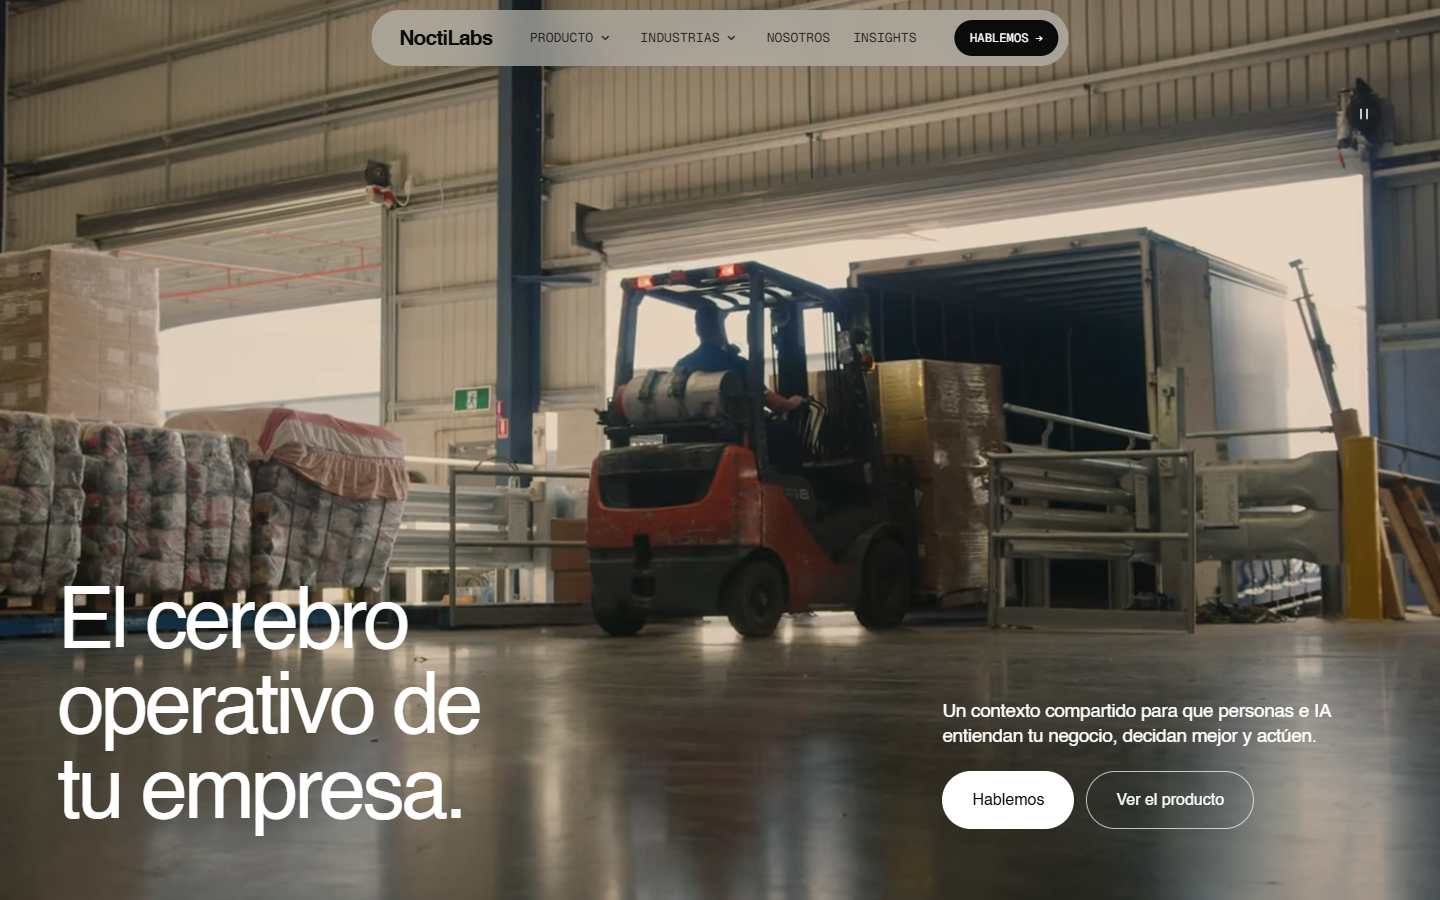
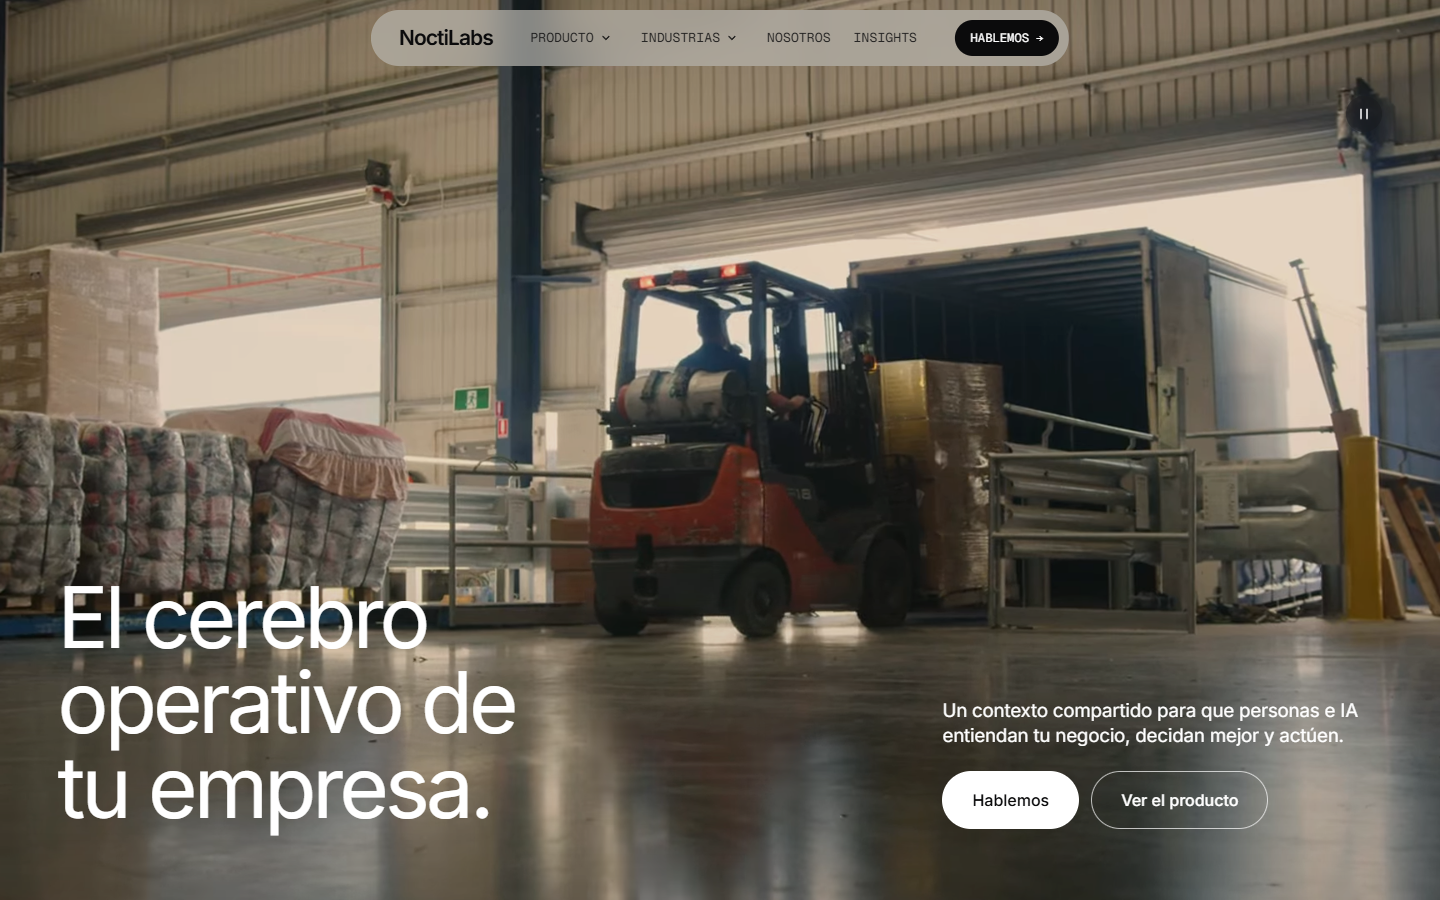
docs: evidencia del spec 001 tras el gate (pasada 2)

diff --git a/docs/reviews/002-spec-sol-pasada-1.md b/docs/reviews/002-spec-sol-pasada-1.md
@@ -1,0 +1,41 @@
+GATE: NO
+
+1. **BLOQUEANTE — §4.1 Capacidades y pasos; B6.** Las tarjetas no son interactivas ni contienen elementos enfocables: `:focus-within` nunca se activa recorriendo la página con Tab. Mantener el ejemplo en el árbol accesible resuelve lectores de pantalla, pero deja afuera a quien usa teclado y ve la pantalla. **Evidencia:** L110–115; Inv §11.23. **Arreglo:** agregar un control real para desplegar cada ejemplo, o mantenerlos visibles para todos. B6 debe comprobar acceso con teclado real, sin enfocar nodos artificialmente por CDP. Si se conserva la tarjeta 04 dinámica, su selector `:has()` debe contemplar también ese foco.
+
+2. **BLOQUEANTE — §4.1 Diagramas y tarjetas; fidelidad versus accesibilidad.** Reproducir los colores exactos produce texto ilegible. `chipOff` usa `#9A9A96` sobre `#F4F4F2`: **2,56:1**. Los ejemplos usan `#D9D9DC`; al mostrarlos siempre en táctil sin oscurecer la tarjeta, quedan en **1,41:1 sobre blanco** o **1,28:1 sobre el fondo claro**. **Evidencia:** Inv §0.2, §1.4–1.5 y §9.10; mínimo de texto normal [WCAG 1.4.3](https://www.w3.org/WAI/WCAG22/Understanding/contrast-minimum.html). **Arreglo:** declarar las diferencias de color accesibles, definir colores para cada fondo y verificar manualmente los estados claro, oscuro, hover, foco y táctil.
+
+3. **BLOQUEANTE — §4.6 Formulario y §4.7 sin JS; B8.** `<form method="post" novalidate>` sin `action` puede enviar los datos a la página actual. `<noscript>` solamente muestra un aviso: no cancela el envío. **Evidencia:** L171 y L198; comportamiento de [formularios HTML](https://developer.mozilla.org/en-US/docs/Web/HTML/Reference/Elements/form). **Arreglo:** dejar el formulario inoperable en el HTML inicial y habilitarlo recién después de registrar el manejador de `submit` con `preventDefault()`. Comprobar sin JS tanto clic como Enter: ninguna petición ni navegación.
+
+4. **BLOQUEANTE — §3.2 Extensión de S1.** No están definidos el identificador estable del artículo ni sus dos slugs literales. Se exige escribir valores esperados independientes, pero el implementador tendría que inventarlos junto con el registro. **Evidencia:** L63–71; spec 001 §3.2 y §4 exige expectativas copiadas del contrato. **Arreglo:** incorporar la fila completa `ArticleId → slug ES → slug EN → URLs`. Extender S1 mediante ciclos separados para `href`, `alternates` y `pageFromPath`, incluidos variantes sin barra, negativos por idioma, barras repetidas y rechazo de identificadores inválidos por tipos.
+
+5. **BLOQUEANTE — §4.5 Insights; B7.** Esta fase tiene un artículo y una categoría, por lo que oculta los filtros; B7 exige operar un filtro que actualice la URL y la lista. No hay interacción disponible para cumplirlo. **Evidencia:** L154–159 frente a L241; Inv §5.2. **Arreglo:** diferir el filtro hasta que exista contenido que permita usarlo y ajustar B7 a ausencia del control, artículo, índice e idiomas. Si se mantiene ahora, definir cómo se verifica con el contenido real disponible, sin introducir mocks propios.
+
+6. **BLOQUEANTE — D1 y B3.** El spec anterior aprobado exige resolver la sans **antes de fase 2**; este vuelve a postergarla. La pila actual cambia entre Arial y Helvetica Neue según la máquina, alterando medidas y saltos de línea. **Evidencia:** spec 001 §7 D1; spec 002 L253; Inv §0.1. **Arreglo:** el dueño debe elegir fuente antes de implementar, o aprobar explícitamente una enmienda que mantenga el fallback y establezca con cuál se acepta la fidelidad. Postergar solamente la licencia no cierra esa decisión.
+
+7. **IMPORTANTE — §3.1 y §3.2 Colección de artículos.** La carpeta y el frontmatter no definen una colección moderna completa. Faltan loader, esquema y separación entre identidad editorial compartida e identidad única de cada traducción. En Astro, el `slug` del frontmatter interviene en el ID generado por `glob()`. **Evidencia:** L56 y L69; loader instalado en Astro 7.3.5; [colecciones de Astro](https://docs.astro.build/en/guides/content-collections/). **Arreglo:** especificar `src/content.config.ts`, `defineCollection`, `glob` y esquema; usar un `articleId` compartido y una clave única por idioma. La validación de build debe exigir exactamente una entrada ES y una EN por artículo registrado, cuerpo no vacío, slugs coincidentes y ausencia de duplicados o entradas huérfanas. Validar únicamente las entradas presentes no detecta traducciones faltantes.
+
+8. **IMPORTANTE — §3 Arquitectura del contenido; B2.** No está definida la migración de metadatos. Hoy `ui.ts` calcula `PageKey` desde `PageRef`; agregar `articulo` introduce una clave que `ui.pages` no tiene. Además, los nuevos H1 de industrias quedan duplicados entre `ui.ts` y `industries.ts`. **Evidencia:** `src/i18n/ui.ts`, funciones `pageKey` y `pageTitle`; L54–59 y L165. **Arreglo:** definir una fuente por dato: metadatos y hero de industrias desde su contenido; metadatos del artículo desde la entrada localizada, con `excerpt` como descripción si esa es la decisión. Adaptar los consumidores existentes y fijar una tabla independiente de expectativas para B2.
+
+9. **IMPORTANTE — §4.8 AppSlot.** El contrato no garantiza el reemplazo prometido. Falta `locale`, enums y defaults; tampoco hay canal para cambiar `role` desde las tabs, recibir `onChatDone` o navegar mediante `onNewAgent`. Cambiar `data-app-role` no actualiza por sí solo las props de una isla React. **Evidencia:** L203–205; Inv §1.3 y §12.1/12.7; App L417. **Arreglo:** definir ahora props serializables, incluyendo idioma y destino de contacto, y el canal de eventos para rol y fin del chat. Establecer quién controla el rol y asignar `frame` explícitamente a los seis embeds. Implementar la isla sigue siendo fase 3.
+
+10. **IMPORTANTE — §4.1 Antes/después; B4.** “El JS solo alterna la clase” contradice el cambio de título, captions, `aria-pressed` y modo de anuncio. Tampoco se define qué ocurre con los nodos y el cierre invisibles: `opacity: 0` los deja disponibles para lectores de pantalla. **Evidencia:** L100–104; Inv §1.2 y §9.11. **Arreglo:** describir una transición de estado que sincronice contenido visible y semántica; dar una descripción textual equivalente al diagrama y ocultar sus partes puramente gráficas del árbol accesible. Usar una región persistente para anunciar cambios manuales y verificar que el autoplay permanezca silencioso.
+
+11. **IMPORTANTE — §4.1 Alternancia; B4.** El control detiene permanentemente el autoplay, pero no comunica esa función. También faltan comportamiento al cambiar reduced motion en vivo y estado inicial sin JS. **Evidencia:** L101–102; Inv §1.2; [WCAG 2.2.2](https://www.w3.org/WAI/WCAG22/Understanding/pause-stop-hide.html) contempla contenido actualizado automáticamente. **Arreglo:** explicar que elegir Sin/Con detiene la alternancia, mantenerla detenida al salir y volver, escuchar cambios de preferencia y definir el contenido estático inicial. B4 debe verificar esas condiciones; no hace falta agregar otro control si el existente resulta descubrible.
+
+12. **IMPORTANTE — §4.1 Tabs de rol e industrias; B5.** Las tabs de rol cambian un único slot, pero no se define su relación con paneles APG. Sin JS quedan botones anunciados como tabs aunque no funcionan. B5 tampoco exige nombres accesibles ni relaciones entre tabs y paneles. **Evidencia:** L107–108, L117–120 y L212; [patrón APG](https://www.w3.org/WAI/ARIA/apg/patterns/tabs/). **Arreglo:** definir IDs, `aria-controls`, `aria-labelledby`, nombre del `tablist`, envoltura de flechas y acceso al panel con Tab. Elegir explícitamente paneles por rol o un selector de rol con otra semántica. Aplicar roles y controles operables solamente después de inicializar el JS.
+
+13. **IMPORTANTE — §3.2 y §5 Estado en URL; B13.** Se sincroniza el filtro, pero las tabs de industria y rol no tienen URL ni excepción declarada. Para el filtro faltan IDs de categoría, normalización de valores inválidos y tratamiento del destacado: “resto de artículos” no alcanza cuando una categoría debe incluir al destacado. **Evidencia:** Inv §5.2; regla de estado en URL de las [guidelines](https://raw.githubusercontent.com/vercel-labs/web-interface-guidelines/main/command.md). **Arreglo:** documentar una excepción para estados efímeros o sincronizar selecciones manuales. Para filtros, fijar IDs independientes del idioma, conservar otros parámetros/hash y definir destacado en Todos, grilla con todos los coincidentes en categoría y fallback de query inválida.
+
+14. **IMPORTANTE — §4.5 Artículo: índice y estilos.** El TOC escrito a mano puede divergir de los IDs generados al traducir los H2. Tampoco está decidido cómo llegan los estilos al Markdown: los selectores scoped del componente contenedor no necesariamente estilizan su contenido renderizado. **Evidencia:** L56 y L162–163; Inv §6.2. **Arreglo:** obtener los headings mediante `render(entry)` y generar el índice, o validar el TOC contra ellos en build. Aplicar estilos globales limitados por un wrapper del artículo. Referencias: [renderizado](https://docs.astro.build/en/guides/content-collections/#rendering-body-content) y [estilos de Markdown](https://docs.astro.build/en/guides/styling/#styling-markdown-content).
+
+15. **IMPORTANTE — §4.6 Estados del formulario; B8.** “Interfaz completa” incluye enviado, pero `submitContact` siempre rechaza; ese estado queda inalcanzable. Se omitió “Enviar otro mensaje”. Una promesa que rechaza inmediatamente también puede resolver antes de que el navegador pinte “Enviando…”. **Evidencia:** L181–187; Inv §7.1 y §10.19; diseño L481. **Arreglo:** delimitar qué estados son verificables en fase 2 y cuáles se aceptan en fase 4. Definir reset, conservación de valores tras error, rehabilitación del botón, prevención de doble envío, limpieza de errores y regiones persistentes. Especificar validación de campos con espacios y obligatoriedad de industria.
+
+16. **IMPORTANTE — §3.1 Imágenes; B12.** `photo` no distingue asset importado, ausencia y alt localizado. `<Picture formats={['avif','webp']}>` conserva por defecto un fallback PNG/JPEG; tampoco define tamaños responsivos ni calidad. “Servida a 1440 px” no determina qué recurso medir. **Evidencia:** Inv §1.6/§3.2; [API de Picture](https://docs.astro.build/en/reference/modules/astro-assets/#picture-). **Arreglo:** tipar foto con `ImageMetadata`, alt ES/EN y ausencia explícita; definir `widths`, `sizes`, fallback y prioridad. Acotar B12 a imágenes raster de contenido y establecer viewport, DPR y recursos medidos. El `dist/` puede comprobar atributos y pesos, pero no decidir si un alt es descriptivo.
+
+17. **IMPORTANTE — §8 Criterios de aceptación.** B3 permite que cualquier diferencia se “justifique”, sin indicar quién la autoriza ni cómo comparar EN y cuatro industrias sin diseño fuente. B14 exige **51/51**, aunque la evidencia vigente registra **67/67**. B4–B8 no verifican anuncios reales de lector de pantalla. **Evidencia:** L237–248; `docs/evidence/001/README.md`, A7; Inv §3 y §6. **Arreglo:** fijar matriz de secciones y estados, diferencias autorizadas y condiciones de captura; separar comparación visual de revisión editorial. Actualizar B14 al checklist vigente y agregar recorridos manuales con lector de pantalla, zoom y teclado. Todo sigue fuera de los tests automáticos de S1.
+
+18. **IMPORTANTE — D8, D9 y D11; publicación.** “Borrador pendiente” no tiene mecanismo de cierre antes del lanzamiento. Ocultar equipo y cinco artículos puede persistir indefinidamente, mientras la fase 2 se declara completa. Además, fecha y ocho minutos del artículo son ilustrativos. **Evidencia:** L142, L150, L154 y L257–265; Inv §11.9/11.12. **Arreglo:** mantener un registro de pendientes que fase 5 deba cerrar antes de fase 6: copy ES/EN aprobado, metadatos editoriales reales y equipo/artículos entregados o exclusión final aceptada por el dueño. D8 no exige esperar para programar borradores; sí exige evitar que la revisión técnica los autorice como contenido final.
+
+19. **IMPORTANTE — §4.1 Tarjetas; B13.** Importar HOVER-CARD literalmente conserva animación de `grid-template-rows`, que modifica layout y contradice la regla adoptada de animar transform/opacidad. **Evidencia:** Inv §0.2; [guidelines de animación](https://raw.githubusercontent.com/vercel-labs/web-interface-guidelines/main/command.md). **Arreglo:** cambiar altura sin transición y limitar la animación a transform/opacidad, o declarar una excepción concreta. Incorporar esa diferencia a B3 para que fidelidad y B13 no se contradigan.
+
+20. **MENOR — D7 y captions de AppSlot.** Cambiar Manufactura por Retail carece de motivo más allá del orden; conservar captions como “Probá Ver transacciones” junto a un placeholder describe una interacción inexistente. **Evidencia:** Inv §1.6, §2.2/§2.4/§2.5. **Arreglo:** justificar el cambio de industria inicial y usar captions temporales coherentes con el placeholder, con restauración explícita en fase 3.

diff --git a/docs/evidence/001/README.md b/docs/evidence/001/README.md
@@ -1,13 +1,13 @@
 # Evidencia del spec 001 — fundación
 
-Commit verificado: `1bac7c2` (arreglos del gate pasada 1 sobre `0f7730f`). Verificación local:
+Commit verificado: `59c0c62` (arreglos de las pasadas 1 y 2 del gate sobre `0f7730f`, más Inter como sans por decisión del dueño). Verificación local:
 
 - `astro preview` en `localhost:4932`;
 - Chrome headless por CDP con emulación de foco;
 - referencia del diseño servida aparte, con la textura en «Ninguna».
 
-Vercel quedó diferido por decisión del dueño (enmienda al spec), así que A11 pasa al lanzamiento. La primera
-pasada del gate de implementación está en `docs/reviews/001-impl-sol-pasada-1.md`.
+Vercel quedó diferido por decisión del dueño (enmienda al spec), así que A11 pasa al lanzamiento. Las pasadas
+del gate de implementación están en `docs/reviews/001-impl-sol-pasada-*.md`.
 
 | # | Resultado | Archivo |
 |---|---|---|
@@ -15,12 +15,12 @@ pasada del gate de implementación está en `docs/reviews/001-impl-sol-pasada-1.
 | A2 | Vitest: 72 tests en verde (S1). `tests/routes.types.ts` pasa en A1. Control negativo hecho a mano: con un `IndustryId` válido, `astro check` falla con «Unused '@ts-expect-error'». | `a2-tests.txt` |
 | A3 | 20 rutas + `/404.html`. | `a3-dist.txt` |
 | A4 | **226/226** comprobaciones de los **valores esperados** (`a4-esperados.json`, escritos a mano desde §3.2, §3.7 y la tabla de copy) contra el HTML de `dist/` (`a4-comparar.mjs`). Cubre por página: `lang`, canonical, los tres hreflang, title, descripción, H1, destino del selector (footer y menú mobile), idioma actual con `aria-current` y, en Producto, las 5 anclas con `tabindex`, H2 y `data-placeholder`. El head (viewport, favicon, theme-color, preload) se revisa en una página por idioma. En la 404: title, `noindex`, sin canonical, sin hreflang, sin selector, bloque en inglés y links a los dos homes. | `a4-esperados.json`, `a4-comparar.mjs`, `a4-comparacion.txt` |
-| A5 | **Links:** 1033 hrefs internos en `dist/`, 0 rotos (anclas incluidas). **Sin JS:** los paneles no abren, y los labels Producto e Industrias navegan a `/producto/` y a Retail. **Recorridos con JS** (en el checklist de A7): las 5 anclas del menú mobile en los dos idiomas (URL final, foco en el destino, destino visible bajo el header en top 76–92 px), el fragmento que ya estaba en la URL y el Ctrl+click sin interceptar. | `a5-a10.txt`, `a5-sin-js.txt`, `a7-a8-checklist.txt` |
+| A5 | **Links:** 1054 hrefs internos en `dist/`, 0 rotos (anclas incluidas). **Sin JS:** los paneles no abren, y los labels Producto e Industrias navegan a `/producto/` y a Retail. **Recorridos con JS** (en el checklist de A7): las 5 anclas del menú mobile en los dos idiomas (URL final, foco en el destino, destino visible bajo el header en top 76–92 px), el fragmento que ya estaba en la URL el Ctrl+click sin interceptar y presionar y sostener un link de los paneles (desktop y mobile) antes de soltar. Las filas registran los valores finales. | `a5-a10.txt`, `a5-sin-js.txt`, `a7-a8-checklist.txt` |
 | A6 | Capturas lado a lado: header, megamenú Producto, megamenú Industrias y footer en 1440; header, menú y footer en 390. Todas sobre fondo liso: la referencia mobile se toma en la página Producto del diseño, no sobre el video. Diferencias abajo. | `capturas/ref-*` vs `capturas/nuevo-*` |
-| A7 | **67/67** casos: megamenú 1–9, mobile 1–7, cortes 999/1000 en las dos direcciones (foco en link del nav, CTA, chevron, link del megamenú, botón hamburguesa y link del panel mobile), secuencias combinadas, cerrar y reabrir antes de que venza el temporizador, `blur()` sin destino (desktop y mobile), click en zona vacía del panel, skip link y `aria-current`. | `a7-a8-checklist.txt` |
+| A7 | **73/73** casos: megamenú 1–9, mobile 1–7, cortes 999/1000 en las dos direcciones (foco en link del nav, CTA, chevron, link del megamenú, botón hamburguesa y link del panel mobile), secuencias combinadas, cerrar y reabrir antes de que venza el temporizador, `blur()` sin destino (desktop y mobile), click en zona vacía del panel, link presionado y sostenido (el caso de Safari), callbacks de foco viejos frente a una apertura nueva, skip link y `aria-current`. | `a7-a8-checklist.txt` |
 | A8 | 0 errores de consola en las 20 rutas. | `a7-a8-checklist.txt` (último caso) |
 | A9 | Revisión con web-design-guidelines: abajo. | — |
-| A10 | Máximo 1940 bytes gzip por página (umbral 3072). Astro inlinea el script del header; el home suma el del video. | `a5-a10.txt` |
+| A10 | Máximo 1961 bytes gzip por página (umbral 3072). Astro inlinea el script del header; el home suma el del video. | `a5-a10.txt` |
 
 ## A6 — diferencias con el diseño
 
@@ -35,6 +35,8 @@ pasada del gate de implementación está en `docs/reviews/001-impl-sol-pasada-1.
 1. **Cruz del menú mobile alineada a la derecha.** En el diseño queda pegada al logo cuando el panel abierto
    ensancha la cápsula (la fila es `max-content`).
 2. **Botón de pausa del video del hero.** Lo exigen las guidelines y WCAG 2.2.2.
+
+**Tipografía (D1, decisión del dueño):** Inter reemplaza a Neue Haas Unica, que no tiene licencia; la referencia se ve con el respaldo del sistema (Arial en Windows). Cambian levemente los anchos de texto; la estructura y las medidas de los contenedores son las del diseño.
 
 **Corregida en `1bac7c2`:** el desenfoque del glass. Lightning CSS borraba el `backdrop-filter` estándar si iba
 antes del prefijado; ahora las capturas muestran el mismo desenfoque que la referencia.
@@ -76,6 +78,7 @@ Reglas bajadas de `vercel-labs/web-interface-guidelines/command.md` (2026-10-03)
 
 ## Límites conocidos de la verificación
 
-- Toda la verificación de interacción corre en Chrome. El foco en Safari, que no enfoca botones al hacer click,
-  se cubre por código: `mousedown` con `preventDefault` en los botones y foco explícito en el click. No hubo un
-  Safari disponible para probarlo.
+- Toda la verificación de interacción corre en Chrome. El foco en Safari, que no enfoca botones ni links al
+  presionarlos, se cubre por código: `mousedown` con `preventDefault` en botones y paneles, y foco explícito en el
+  click de los botones. En Chrome se verificó que, con ese `preventDefault`, presionar y sostener un link deja el
+  panel abierto y la navegación ocurre al soltar. No hubo un Safari disponible para probarlo.

diff --git a/docs/reviews/001-impl-sol-pasada-2.md b/docs/reviews/001-impl-sol-pasada-2.md
@@ -1,0 +1,13 @@
+GATE: NO
+
+1. **BLOQUEANTE — `src/scripts/header.ts:16`, `:105`, `:157`. El arreglo de `focusout` puede impedir navegar en Safari.** `holdFocusOnPress` excluye los links del `preventDefault`, pero Safari tampoco los enfoca al presionarlos si no tienen `tabindex` explícito. Secuencia: abrir con el botón → presionar un link del panel → `focusout` con destino `null` → vence el timeout antes de soltar → el panel desaparece antes del click. Afecta megamenús y menú mobile usado con mouse; incumple A5 y §3.5. **Evidencia:** comportamiento confirmado por [WebKit](https://bugs.webkit.org/show_bug.cgi?id=312692#c1); simulando esa pérdida de foco con los handlers reales, ambos paneles quedaron ocultos antes de `mouseup`. Es una inferencia sustentada, sin ejecución en Safari. **Arreglo:** asegurá el foco de los links al presionarlos —por ejemplo, con `tabindex="0"` explícito— o coordiná el cierre con la activación interna en curso. Conservá la navegación nativa y verificá clicks sostenidos y con modificadores.
+
+2. **BLOQUEANTE — `src/scripts/header.ts:105`, también `:157`. Los nuevos temporizadores no pertenecen a una apertura específica ni se cancelan.** `cancelTimer()` sólo cancela el cierre de hover. Los callbacks de `focusout` quedan pendientes y el desktop sólo comprueba el grupo, permitiendo que un callback anterior cierre una apertura nueva. Contradice expresamente §3.5, megamenú paso 9. **Evidencia:** simulé con el código actual, antes de ejecutar el callback: abrir Producto → enfocar botón → `blur()` → Esc → salir y volver con el puntero. El panel reabre por hover, pero el callback viejo lo cierra y deja `aria-expanded="false"`. El caso 51 del checklist cubre el temporizador de 120 ms, no éste. **Arreglo:** registrá y cancelá también estos timeouts; vinculá cada callback a la generación de apertura vigente. Aplicá el mismo criterio al mobile.
+
+3. **IMPORTANTE — `docs/evidence/001/a7-a8-checklist.txt:50`, `:55`, `:66`; `docs/evidence/001/README.md:18–20`. El hallazgo 6 de la pasada 1 quedó parcialmente resuelto.** Ahora figuran las diez anclas, el fragmento repetido, la reapertura y Producto sin JS. Sin embargo, el cruce mobile→desktop con foco en un **link** sigue sin identificarse: el caso 50 es genérico y el 66 sólo especifica el botón. Las filas de anclas dicen «foco», «visible» y «URL», sin registrar los valores finales que declara el README. **Evidencia:** esos son los únicos resultados adjuntos para esos recorridos. **Arreglo:** completá el caso con foco en un link mobile y registrá URL final, elemento enfocado y posición del destino por ancla. Agregá los recorridos de los hallazgos 1 y 2 al checklist manual.
+
+De la pasada 1: **1, 4, 5, 7, 8, 9 y 10 resueltos**: glass conservado en el CSS compilado y capturas, contraste corregido, A4 independiente y reproducible, capturas mobile completas, listener de movimiento reducido, copy separado y README agregado. **2** resuelve el `blur()` original, pero introduce los problemas de arriba. **3** resuelve el foco de los botones; la navegación interna en Safari queda afectada por el hallazgo 1. **6** queda parcial.
+
+No encontré otra regresión concreta en `industries.ts` ni en el listener de movimiento reducido. `focusQuietly` conserva el foco visible en Enter/Espacio cuando el botón ya está enfocado, porque no vuelve a ejecutar `focus()`.
+
+Verificado sobre HEAD `e8f62a0`, código `1bac7c2`: build completo con **0 errores, warnings e hints**; A4 **226/226**; JS máximo **1940 bytes gzip**. Vitest quedó impedido por permisos del sandbox; no lo cuento como hallazgo.

diff --git a/docs/specs/002-paginas.md b/docs/specs/002-paginas.md
@@ -256,9 +256,13 @@ Todo en TypeScript sin dependencias. Cada script se incluye solo en la página q
 - **D7. Industria inicial del Home.** Retail, el primero de la lista, en lugar de Manufactura.
 - **D8. Industrias sin copy.** Lo redacto yo como borrador. *Alternativa:* publicar solo Retail y sacar las otras 4 de la navegación hasta tener el texto.
 - **D9. Equipo.** Oculto hasta tener nombres, roles y fotos reales.
-- **D10. Fotos faltantes.**
-  - Retail sale de un fotograma del video del hero (stock con licencia del dueño).
-  - Servicios queda en un panel oscuro con el isotipo y el label hasta tener foto.
+- **D10. Fotos faltantes.** Salen de fotogramas de los clips de stock de Artlist que el dueño ya usó para el
+  video del hero:
+  - Retail: «Stocktaking Warehouse Worker Inventory Check» (depósito con estanterías, coincide con el placeholder
+    del diseño).
+  - Servicios: «Floor Business Window Office» (oficina).
+
+  El panel oscuro con isotipo queda solo como respaldo si falta una foto.
 - **D11. Insights.**
   - Se publica solo el artículo con cuerpo.
   - Los otros 5 títulos del diseño no se publican sin texto.
